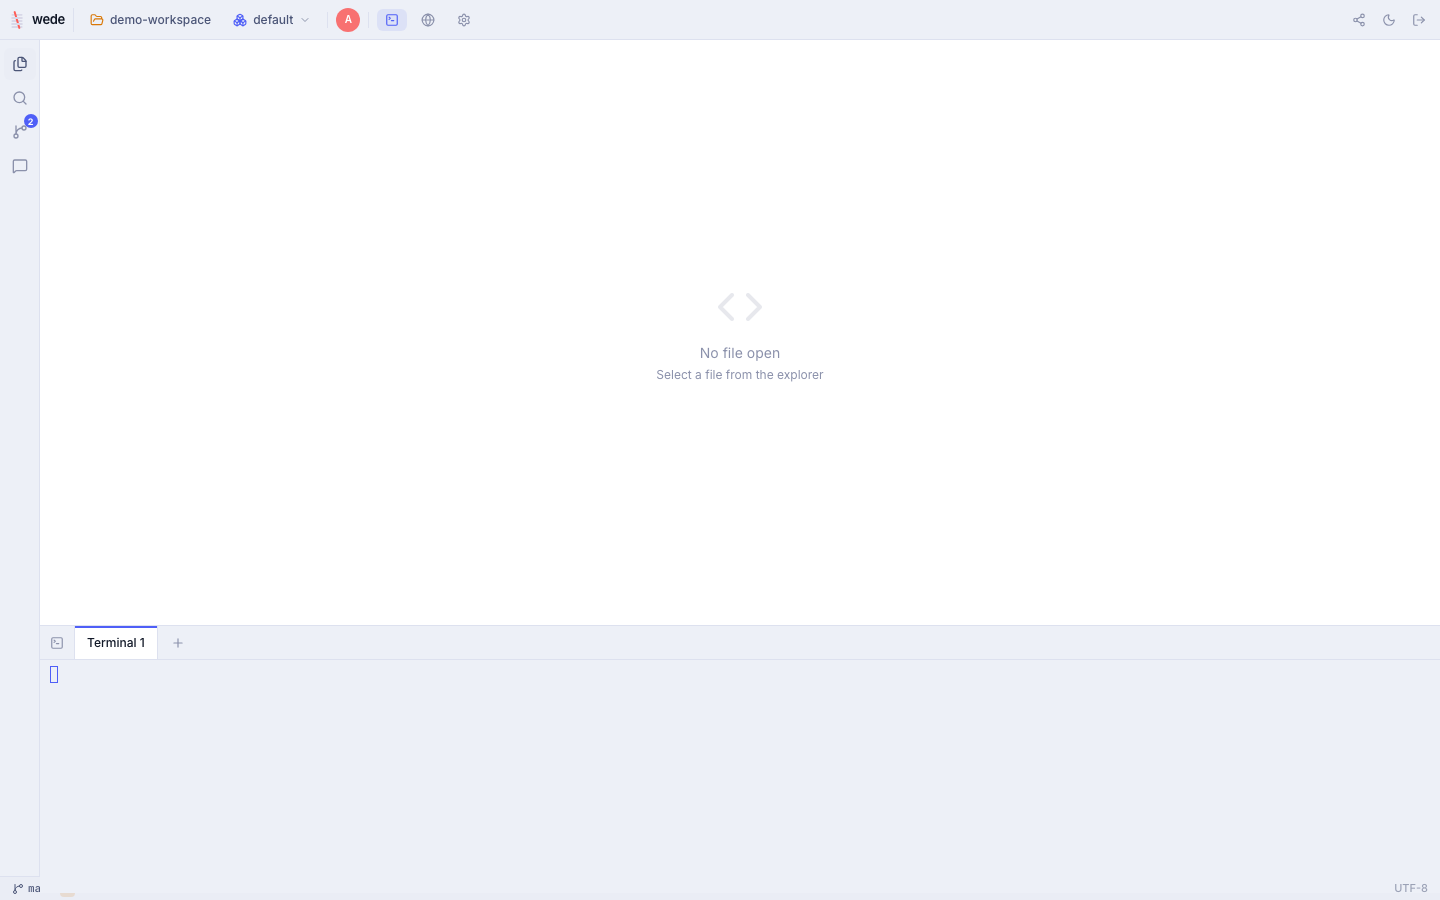
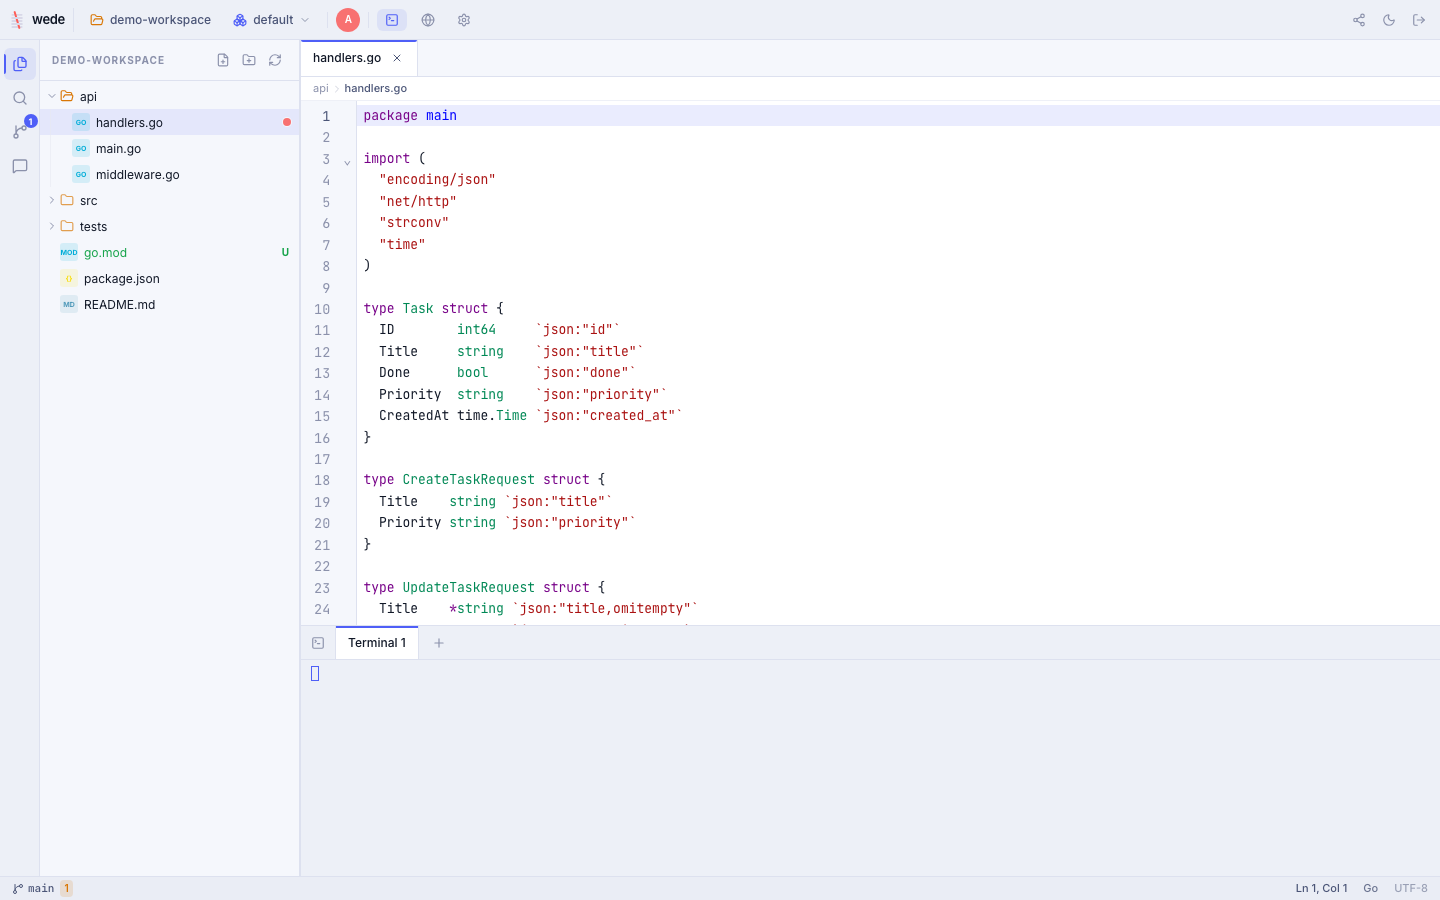
fix(screenshots): real code file in editor + working git/graph panels + wikipedia browser
The screenshotter navigation was broken: it clicked the already-active
Explorer tab (collapsing the sidebar -> empty 'No file open' hero), and
searched for an activity button titled 'git' that is actually 'Source
Control' (so the git shot fell through to the workspace dropdown). Fixed:
- hero now opens a real source file (handlers.go) via getByText on the
  <div> tree rows; editor shows actual Go code + expanded tree.
- git shot matches /source.?control/ -> real Source Control panel
  (Changes/History/Branches, commit box).
- git_graph clicks the History tab -> commit graph with refs.
- terminal/search no longer toggle their panels off.
- README + SCREENSHOTS.md now point at browser.png (wikipedia.org), not
  the stale preview.png; removed preview.png.
All shots regenerated in light mode.

diff --git a/README.md b/README.md
@@ -50,7 +50,7 @@ It runs standalone or embedded as a first-class app in the [Vulos OS](https://vu
 </tr>
 <tr>
 <td><img src="docs/screenshots/command_palette.png" alt="wede command palette" width="400"><br><em>Command palette (Ctrl+Shift+P)</em></td>
-<td><img src="docs/screenshots/preview.png" alt="wede built-in browser preview" width="400"><br><em>Built-in browser preview</em></td>
+<td><img src="docs/screenshots/browser.png" alt="wede built-in browser preview showing wikipedia.org" width="400"><br><em>Built-in browser preview (wikipedia.org)</em></td>
 </tr>
 </table>
 

diff --git a/docs/SCREENSHOTS.md b/docs/SCREENSHOTS.md
@@ -90,9 +90,9 @@ Fully responsive layout for tablets and phones. *(manual capture)*
 
 ### Built-in browser preview
 
-![Browser preview](screenshots/preview.png)
+![Browser preview](screenshots/browser.png)
 
-Embedded browser tab for previewing your running app. *(manual capture)*
+Embedded browser tab for previewing your running app (shown loading wikipedia.org).
 
 ---
 
